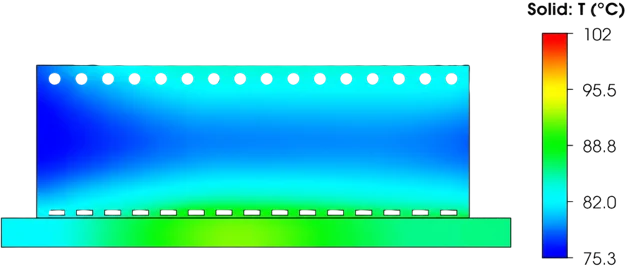
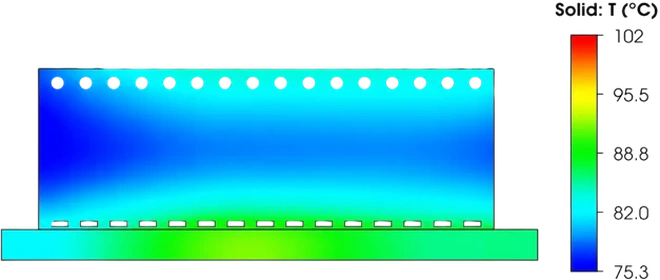
fix(case-study): convert thermal comparison to clip-path slider, match image sizes, lighten background for clear numbers

diff --git a/src/components/home/ReferenceCaseStudiesSection.tsx b/src/components/home/ReferenceCaseStudiesSection.tsx
@@ -66,44 +66,50 @@ export function ReferenceCaseStudiesSection() {
 
             {/* Right Column: Interactive Drag Comparison */}
             <div className="lg:col-span-7 flex flex-col items-center">
-              <div className="relative w-full h-64 sm:h-80 rounded overflow-hidden select-none bg-slate-950 border border-slate-700">
+              <div className="relative w-full h-64 sm:h-80 rounded overflow-hidden select-none bg-[#f4f7f6] border border-[#d6deda]">
                 {/* Base: ITS Solution (After) */}
-                <div className="absolute inset-0">
-                  <Image
-                    src="/assets/thermal-after.webp"
-                    alt="Thermal model after the ITS heat pipe redesign"
-                    fill
-                    className="object-contain"
-                  />
-                  <span className="absolute bottom-3 right-3 px-2 py-1 bg-black/70 backdrop-blur-md rounded text-[9px] font-mono text-[#81e6d6] z-10">
+                <div className="absolute inset-0 flex items-center justify-center p-3">
+                  <div className="relative w-full h-full">
+                    <Image
+                      src="/assets/thermal-after.webp"
+                      alt="Thermal model after the ITS heat pipe redesign"
+                      fill
+                      sizes="(max-width: 768px) 100vw, 50vw"
+                      className="object-contain"
+                      priority
+                    />
+                  </div>
+                  <span className="absolute top-3 right-3 px-2 py-1 bg-[#0b252c]/90 backdrop-blur-md rounded text-[9px] font-mono text-[#81e6d6] z-10 uppercase tracking-wider font-semibold shadow-sm">
                     ITS SOLUTION
                   </span>
                 </div>
 
-                {/* Overlay: Original Design (Before) */}
+                {/* Overlay: Original Design (Before) with CSS clip-path to prevent zooming/stretching */}
                 <div
-                  className="absolute inset-0 overflow-hidden"
-                  style={{ width: `${sliderPos}%` }}
+                  className="absolute inset-0 flex items-center justify-center p-3 pointer-events-none"
+                  style={{ clipPath: `inset(0 ${100 - sliderPos}% 0 0)` }}
                 >
-                  <div className="relative w-full h-full min-w-[320px]">
+                  <div className="relative w-full h-full">
                     <Image
                       src="/assets/thermal-before.webp"
                       alt="Thermal model of the original amplifier cooling design"
                       fill
+                      sizes="(max-width: 768px) 100vw, 50vw"
                       className="object-contain"
+                      priority
                     />
                   </div>
-                  <span className="absolute bottom-3 left-3 px-2 py-1 bg-black/70 backdrop-blur-md rounded text-[9px] font-mono text-white z-10">
+                  <span className="absolute top-3 left-3 px-2 py-1 bg-[#0b252c]/90 backdrop-blur-md rounded text-[9px] font-mono text-[#e2ece9] z-10 uppercase tracking-wider font-semibold shadow-sm">
                     ORIGINAL DESIGN
                   </span>
                 </div>
 
                 {/* Divider Line & Handle */}
                 <div
-                  className="absolute top-0 bottom-0 w-0.5 bg-white shadow-[0_0_8px_rgba(255,255,255,0.8)] z-20 pointer-events-none"
+                  className="absolute top-0 bottom-0 w-[2px] bg-[#087f83] shadow-[0_0_10px_rgba(8,127,131,0.5)] z-20 pointer-events-none"
                   style={{ left: `${sliderPos}%` }}
                 >
-                  <div className="absolute top-1/2 -translate-y-1/2 -translate-x-1/2 w-7 h-7 rounded-full bg-white text-slate-900 flex items-center justify-center text-xs font-mono font-bold shadow-lg">
+                  <div className="absolute top-1/2 -translate-y-1/2 -translate-x-1/2 w-8 h-8 rounded-full bg-[#81e6d6] text-[#0b252c] border-2 border-white flex items-center justify-center text-sm font-bold shadow-md">
                     ↔
                   </div>
                 </div>
@@ -111,13 +117,15 @@ export function ReferenceCaseStudiesSection() {
 
               {/* Slider Input Control */}
               <div className="w-full mt-4 flex flex-col items-center gap-1.5">
-                <label
-                  htmlFor="thermal-range"
-                  className="text-xs font-mono text-slate-600 flex items-center gap-2 cursor-pointer"
-                >
-                  <span>Drag to compare the thermal models</span>
+                <div className="w-full max-w-md flex items-center justify-between text-xs font-mono text-slate-600">
+                  <label
+                    htmlFor="thermal-range"
+                    className="flex items-center gap-2 cursor-pointer"
+                  >
+                    <span>Drag to compare the thermal models</span>
+                  </label>
                   <span className="text-[#087f83] font-bold">← →</span>
-                </label>
+                </div>
                 <input
                   id="thermal-range"
                   type="range"
@@ -125,7 +133,7 @@ export function ReferenceCaseStudiesSection() {
                   max="100"
                   value={sliderPos}
                   onChange={(e) => setSliderPos(Number(e.target.value))}
-                  className="w-full max-w-md accent-[#087f83] cursor-pointer"
+                  className="w-full max-w-md accent-[#087f83] cursor-ew-resize h-2 bg-[#d6deda] rounded-lg appearance-none"
                   aria-label="Compare original design with ITS solution"
                 />
               </div>
